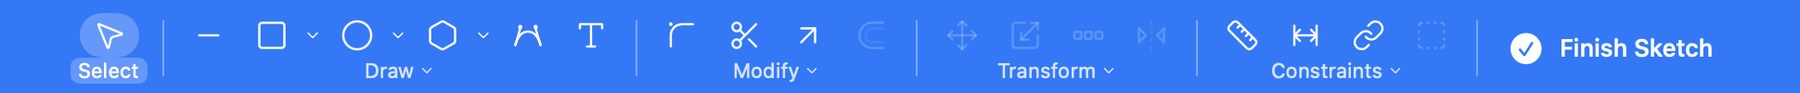
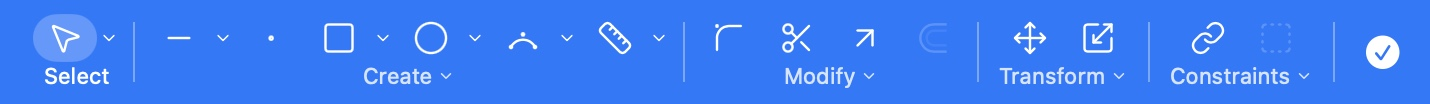
Docs: Create group menus, Select filter and box select, new sketch toolbar screenshot
The drawing page names the Create group's menus and which tools the toolbar starts with.
The editing page covers box select, Select All and the Points / Curves filter.
The sketch toolbar screenshot shows the current Create group.

diff --git a/website/src/docs/sketch/draw.md b/website/src/docs/sketch/draw.md
@@ -3,7 +3,14 @@ title: Drawing tools
 description: Line, rectangle, slot, circle, polygon, arc, tangent arc, ellipse, spline, gear, point and project edge, with every way to draw each. How to draw them, type exact values and snap.
 ---
 
-The **Create** group holds the shapes. The key in brackets picks the tool while you sketch.
+The **Create** group holds the shapes. Its buttons are named for what they draw, and each opens a list of ways to draw it:
+
+- **Lines**, **Point**, **Rectangles**, **Circles** and **Arcs** (Arc, 3-Point Arc and Tangent Arc)
+- **Other Geometry**: Ellipse, Polygons, Slots, Splines and Gear
+- **Text**, **Patterns** and **References** (Project Edge, Intersect, Project Again)
+- **Sketch Dimension**: [Dimension and Distance](doc:sketch/dimensions)
+
+The table below goes tool by tool. The key in brackets picks the tool while you sketch.
 
 ![The sketch toolbar.](shot:toolbar-sketch)
 
@@ -28,7 +35,7 @@ The **Create** group holds the shapes. The key in brackets picks the tool while 
 Some tools share a button. The small arrow beside it picks the way to draw, and the button then keeps using it. In the list under **Create**, rest the pointer on a name such as **Rectangles** and its ways to draw open beside it. The pin beside a name, or beside a single way, puts that button on the toolbar.
 
 :::note
-Arc, Gear, Text, Patterns and References are in the Create group's list rather than on the toolbar by default. Click **Create** to see all of them, and pin the ones you want. See [The interface](doc:start/interface).
+The toolbar starts with Lines, Point, Rectangles, Circles, Arcs and Sketch Dimension. Other Geometry, Text, Patterns and References are in the Create group's list. Click **Create** to see all of them, and pin the ones you want. See [The interface](doc:start/interface).
 :::
 
 ## The shortcuts panel

diff --git a/website/src/docs/sketch/edit.md b/website/src/docs/sketch/edit.md
@@ -1,6 +1,6 @@
 ---
 title: Editing curves
-description: Select and drag, round corners, trim, extend and offset curves in a sketch.
+description: Select (with a box or a filter) and drag, round corners, trim, extend and offset curves in a sketch.
 ---
 
 ## Select and move
@@ -11,10 +11,24 @@ Press [[S]] for the **Select** tool.
 |---|---|
 | **Click** a point, a curve or a dimension | Select it. [[⇧]]-click adds more. |
 | **Double-click** a curve | Select all the curves joined to it |
+| **Drag** across empty space | Select with a box. Dragging left to right takes what lies wholly inside it. Dragging right to left takes everything it touches. |
+| [[⌘A]] | Select everything in the sketch |
 | **Drag** a point, a line or a circle's rim | Move it. The geometry follows as far as the constraints allow. |
 | [[⌫]] | Delete the selection |
 
 How far things can move depends on the [constraints](doc:sketch/constraints). A free sketch moves freely. A fully constrained one stays put.
+
+### What Select picks
+
+When lines lie over each other, or a box would take too much, tell Select what you want. Click the small arrow beside **Select** and choose:
+
+| Choice | Select takes |
+|---|---|
+| **All** | Points, curves and everything else. This is the usual setting. |
+| **Points** | Points only, including the ends and centres of curves. A click reaches the end of a line that lies over it, and a box takes every point in it. The origin is left out. |
+| **Curves** | Lines, arcs, circles and splines only. Points are left alone. |
+
+The filter works for clicks, hovering, box selection and [[⌘A]]. A click on something the filter skips reaches what lies beneath it. Changing the filter lets go of anything it no longer takes. The Select button and the status bar say what is being picked, for example *Select: Points*.
 
 ## Round Corner
 
